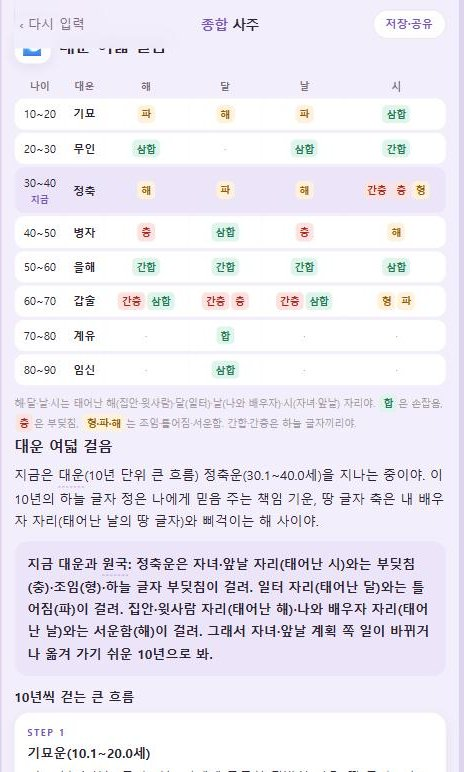
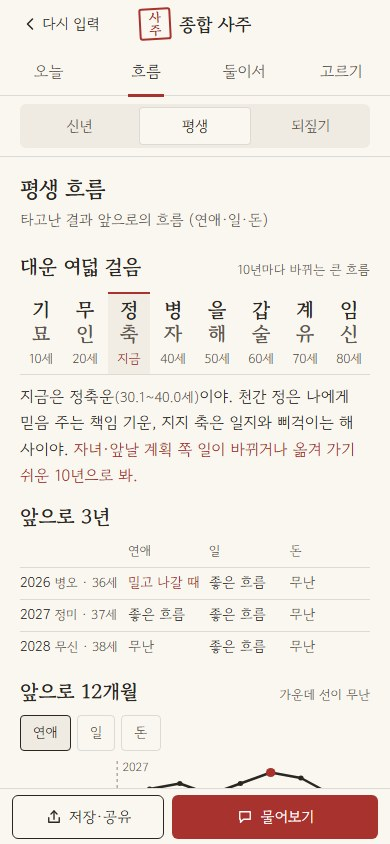
README·문서: 새 디자인 캡처와 탭 네 묶음, 시험 763개로 갱신

diff --git a/README.md b/README.md
@@ -6,9 +6,9 @@ AI는 계산된 사실표만 받고, 사실표에 없는 숫자나 단정하는 
 [![CI](https://github.com/seungwook-kim/saju-agent/actions/workflows/ci.yml/badge.svg)](https://github.com/seungwook-kim/saju-agent/actions/workflows/ci.yml)
 ![Python](https://img.shields.io/badge/python-3.11%20%7C%203.12%20%7C%203.13-blue)
 ![dependencies](https://img.shields.io/badge/dependencies-0-brightgreen)
-![tests](https://img.shields.io/badge/tests-705%20passed-brightgreen)
+![tests](https://img.shields.io/badge/tests-763%20passed-brightgreen)
 
-| 첫 화면 | 오늘 탭 | 평생 탭 (대운 x 원국) |
+| 첫 화면 | 오늘 · 총운 | 흐름 · 평생 (대운 여덟 걸음) |
 |---|---|---|
 | ![첫 화면](docs/images/home.jpg) | ![오늘 탭](docs/images/today.jpg) | ![평생 탭](docs/images/life.jpg) |
 
@@ -17,7 +17,8 @@ AI는 계산된 사실표만 받고, 사실표에 없는 숫자나 단정하는 
 ## 무엇을 하나
 
 - **정통 계산:** 네 기둥(사주), 대운, 신살, 자미두수 명반 12궁과 사화, 출생 차트(행성·상승궁·하우스), 오늘의 트랜짓, 택일(생기복덕·황도·건제)
-- **탭 11개:** 총운 · 연애 · 직장 · 금전(오늘 하루) · 신년 · 평생 · 되짚기(지난 20년을 기억과 대조) · 시간 찾기 · 궁합 · 길일 · 이름 풀이
+- **탭 11개, 네 묶음:** 오늘(총운 · 연애 · 직장 · 금전) · 흐름(신년 · 평생 · 되짚기: 지난 20년을 기억과 대조) · 둘이서(궁합) · 고르기(시간 찾기 · 길일 · 이름 풀이)
+- **사주에 맞춘 화면:** 한지 바탕에 먹과 인주, 그 사람 일간의 오행 색 하나. 오늘 탭은 오늘 한 줄, 해 볼 것과 조심할 것, 일간 도장과 총운, 붓 획 점수, 하늘과 땅으로 나눈 네 기둥 띠 순서로 보여 줍니다. 오행은 색과 함께 "나무 불 흙 쇠 물" 글자로 적어 색약이어도 구분됩니다. 글꼴(Gowun Batang·Dodum)은 부분 글꼴로 직접 줍니다.
 - **근거 보기:** 챕터마다 그 풀이가 본 계산값을 펼쳐 볼 수 있습니다 (AI 풀이도 이 값만 받습니다).
 - **세 체계 합의도:** 앞으로 10년, 해마다 사주·자미두수·점성술이 같은 쪽을 가리키는지 표로 보여 줍니다.
 - **태어난 시간 찾기:** 기억나는 인생 사건으로 12시진 후보에 점수를 매깁니다 (점성술 출생시간 보정 방식).
@@ -80,7 +81,7 @@ flowchart LR
 |---|---|
 | `love_fortune/` | 계산 엔진, 웹 서버, 풀이 생성 (파이썬 파일 52개) |
 | `love_fortune/static/` | 화면 (바닐라 JS, 빌드 도구 없음) |
-| `tests/` | 시험 705개. 외부 기준값 파일은 `tests/data/` |
+| `tests/` | 시험 763개. 외부 기준값 파일은 `tests/data/` |
 | `tools/` | 기준값·데이터 생성 도구 (개발할 때만 외부 패키지 사용) |
 | `db/` | 해석 데이터·AI 풀이 저장소의 표 만들기 스크립트 (SQLite, Supabase) |
 | `docs/GUIDE.md` | 자세한 실행법, 운세 체계, 데이터 출처 |

diff --git a/docs/PRD.md b/docs/PRD.md
@@ -75,8 +75,8 @@
 
 | ID | 요구사항 |
 |---|---|
-| F-RS-1 | 탭 11개를 가로 줄로 보여 주고, 스크롤해도 탭 줄이 위에 붙어 있다 (2026-09-28). |
-| F-RS-2 | 풀이 탭은 챕터(CHAPTER 01, 02 …)를 위에서 아래로 읽는 구성이다. 모두 33개. |
+| F-RS-1 | 탭 11개를 오늘·흐름·둘이서·고르기 네 묶음 줄과 안쪽 줄로 보여 주고, 스크롤해도 묶음 줄이 위에 붙어 있다 (2026-09-28, 2026-10-15 네 묶음). |
+| F-RS-2 | 풀이 탭은 장(1장, 2장 …)을 위에서 아래로 읽는 구성이다. 장마다 결론 한 줄을 먼저 보이고 3장부터 접혀 있다. 모두 33개. |
 | F-RS-3 | 입력 직후 모든 챕터를 계산 풀이로 채우고, AI 풀이가 오면 그 챕터만 바꿔 끼운다. |
 | F-RS-4 | 챕터마다 '근거 보기'를 펼치면 그 풀이가 본 계산값(AI에 보낸 값과 같다)을 보여 준다. |
 | F-RS-5 | 용어를 누르면 용어 풀이(111개)를 보여 준다. |

diff --git a/docs/SDD.md b/docs/SDD.md
@@ -332,7 +332,7 @@ HEAD, OPTIONS는 구현하지 않아 501이 나간다.
 
 ## 12. 시험
 
-- `tests/` 아래 33개 파일, 시험 705개 (2026-10-14). 실행: `uv run --no-project --with pytest python -m pytest -q`.
+- `tests/` 아래 35개 파일, 시험 763개 (2026-10-15). 실행: `uv run --no-project --with pytest python -m pytest -q`.
 - 시험은 AI 없이(`SAJU_AI=0`), `.env` 없이(`SAJU_DOTENV=0`), Supabase 키 없이 돈다 (`tests/conftest.py`).
 - 외부 기준 대조:
 
